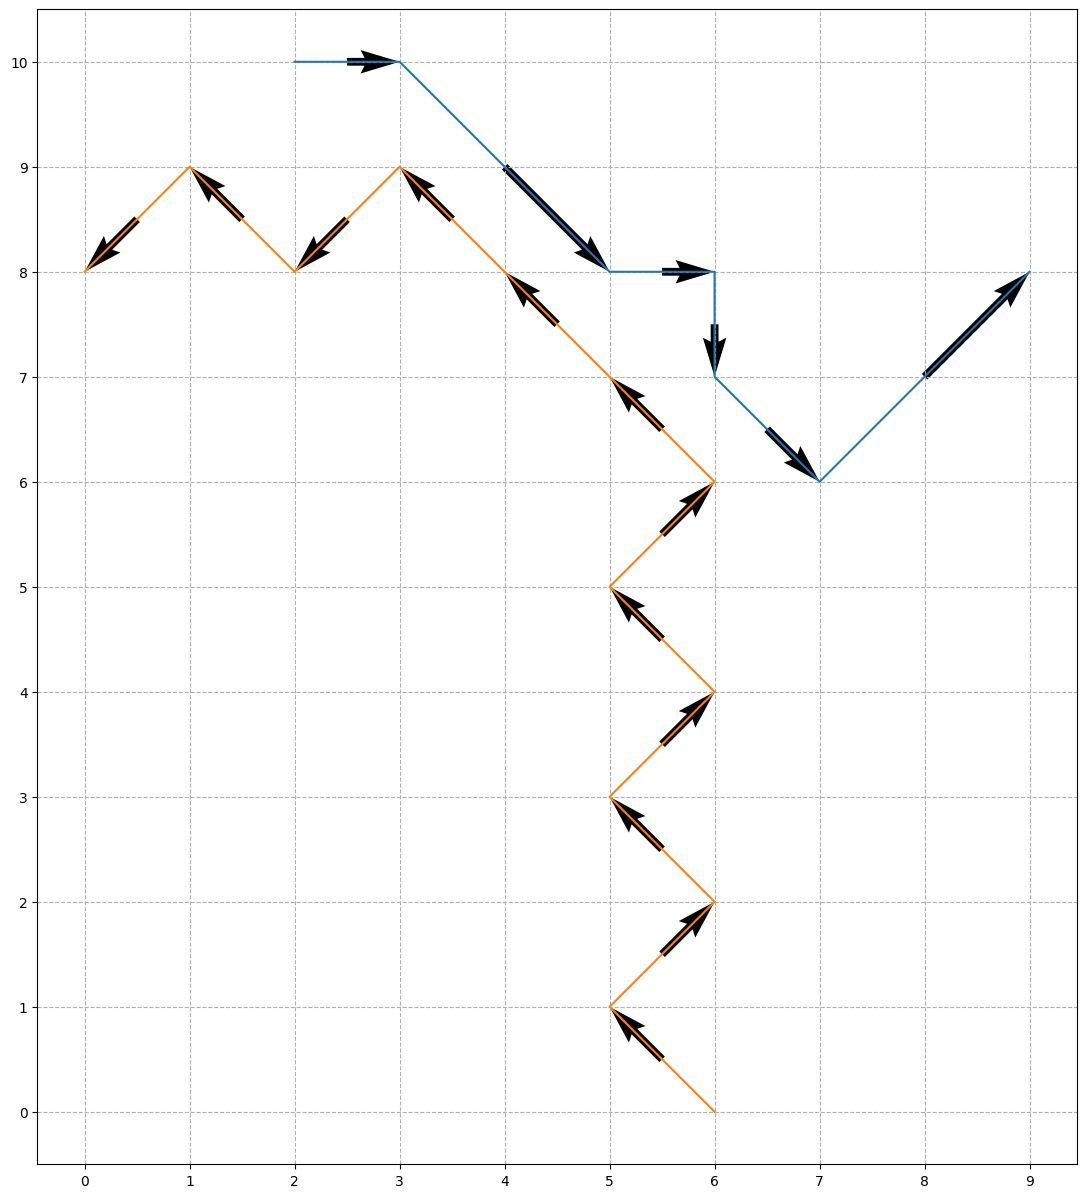
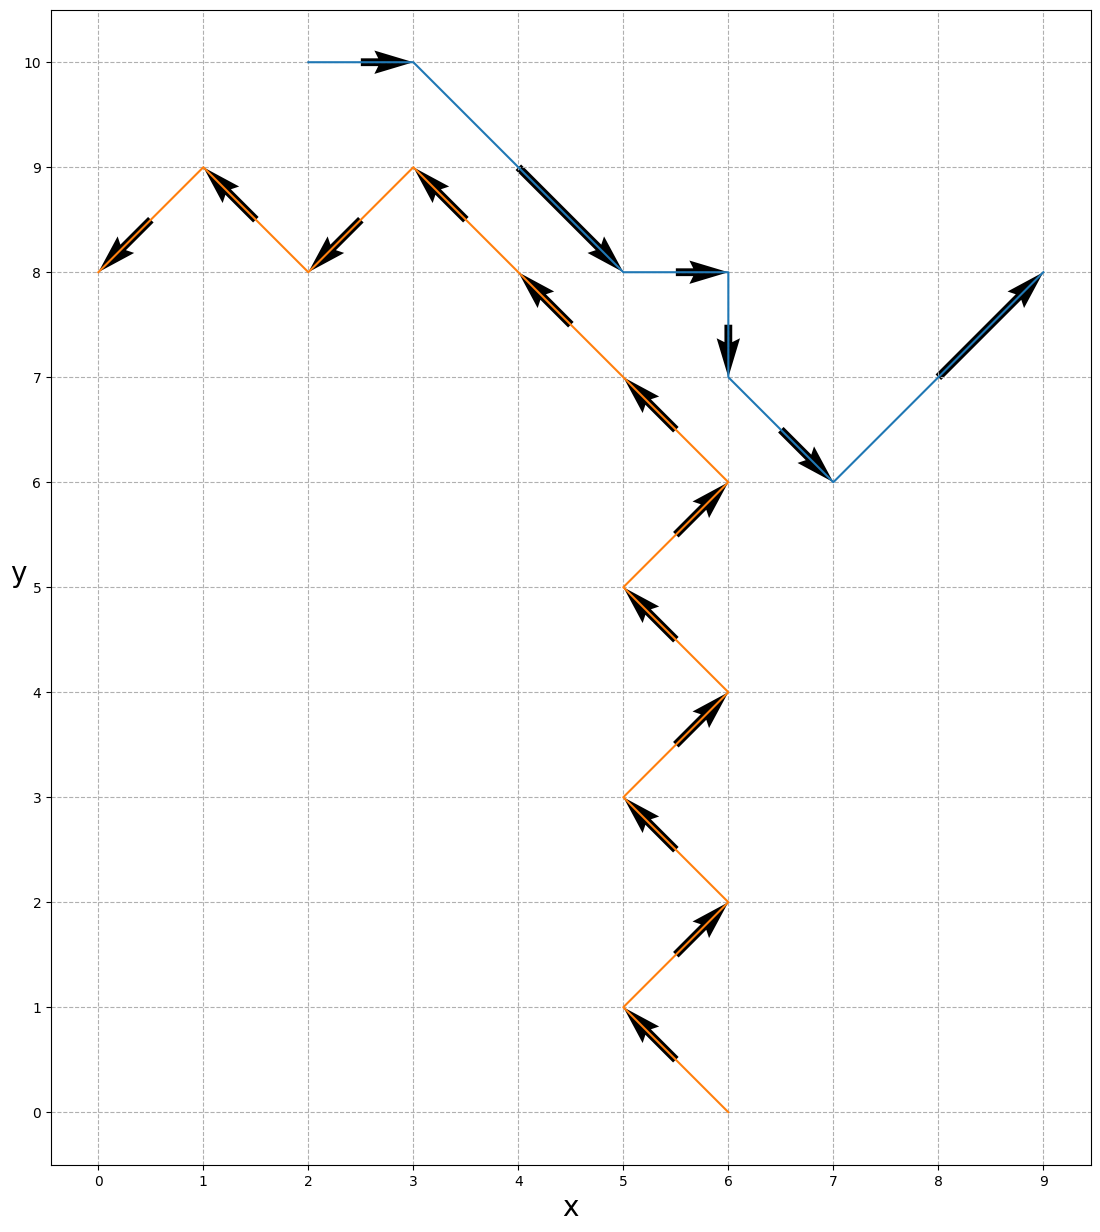
Added plot of paths with one doubling back

diff --git a/doubleback_quiver.py b/doubleback_quiver.py
@@ -4,23 +4,29 @@ from pathlib import Path
 
 # Create the two "linestring" paths as 2 vectors of (x,y) coordinates
 
-v1 = np.array([(2, 10), (3, 10), (5, 8), (6, 8), (6, 7), (7, 6), (9, 8),])
+# Green, above
+v1 = np.array(
+    [
+        (11.0, 8.5),
+        (3.0, 7.0),
+        (6.2, 7.0),
+        (7.5, 6.5),
+        (5.0, 4.8),
+        (6.5, 4.8),
+    ]
+)
 
+# Purple, below (doubling back)
 v2 = np.array(
     [
-        (6, 0),
-        (5, 1),
-        (6, 2),
-        (5, 3),
-        (6, 4),
-        (5, 5),
-        (6, 6),
-        (5, 7),
-        (4, 8),
-        (3, 9),
-        (2, 8),
-        (1, 9),
-        (0, 8),
+        (10.0, 4.5),
+        (4.0, 4.5),
+        (6.7, 6.3),
+        (6.1, 6.7),
+        (5.7, 6.6),
+        (6.1, 6.2),
+        (2.0, 6.3),
+        (2.8, 7.4),
     ]
 )
 
@@ -42,19 +48,20 @@ v2_mid_dirs_x, v2_mid_dirs_y = v2_mid_dirs[:, 0], v2_mid_dirs[:, 1]
 
 def draw_plot():
     plt.figure(figsize=(15, 15))
-    #plt.title("Two paths that approach nearby in opposite directions")
+    # plt.title("Two paths that approach nearby in opposite directions")
     ax = plt.axes()
     ax.set_aspect(1)
     for axis, label in zip([ax.xaxis, ax.yaxis], ["x", "y"]):
-        loc = plticker.MultipleLocator(base=1)
+        loc = plticker.MultipleLocator(base=1.0)
         axis.set_major_locator(loc)
         axis.set_label_text(label, fontsize=20, rotation=0)
-    plt.plot(v1_x, v1_y)
-    plt.plot(v2_x, v2_y)
-    plt.quiver(v1_mid_x, v1_mid_y, v1_mid_dirs_x, v1_mid_dirs_y, units="xy", scale=2.0)
-    plt.quiver(v2_mid_x, v2_mid_y, v2_mid_dirs_x, v2_mid_dirs_y, units="xy", scale=2.0)
-    plt.grid(which="both", linestyle="--")
+    plt.plot(v1_x, v1_y, linestyle="--", color="green")
+    plt.plot(v2_x, v2_y, linestyle="--", color="purple")
+    plt.quiver(v1_mid_x, v1_mid_y, v1_mid_dirs_x, v1_mid_dirs_y, units="xy", scale=2.0, color="green")
+    plt.quiver(v2_mid_x, v2_mid_y, v2_mid_dirs_x, v2_mid_dirs_y, units="xy", scale=2.0, color="purple")
+    #plt.grid(which="both", linestyle="--")
     return
+
 
 def show_plot():
     draw_plot()
@@ -67,6 +74,7 @@ def save_plot():
     draw_plot()
     plt.savefig(file, bbox_inches="tight")
     return
+
 
 if __name__ == "__main__":
     show_plot()

diff --git a/save_db_quiver.py b/save_db_quiver.py
@@ -1,0 +1,18 @@
+from matplotlib import pyplot as plt
+from pathlib import Path
+from doubleback_quiver import draw_plot
+
+def show_plot():
+    draw_plot()
+    plt.show()
+    return
+
+
+def save_plot():
+    file = Path(__file__).parent / "img" / "doubleback_plot.png"
+    draw_plot()
+    plt.savefig(file, bbox_inches="tight")
+    return
+
+if __name__ == "__main__":
+    save_plot()

diff --git a/save_quiver.py b/save_quiver.py
@@ -1,0 +1,18 @@
+from matplotlib import pyplot as plt
+from pathlib import Path
+from quiver import draw_plot
+
+def show_plot():
+    draw_plot()
+    plt.show()
+    return
+
+
+def save_plot():
+    file = Path(__file__).parent / "img" / "quiver_plot.png"
+    draw_plot()
+    plt.savefig(file, bbox_inches="tight")
+    return
+
+if __name__ == "__main__":
+    save_plot()

diff --git a/README.md b/README.md
@@ -5,3 +5,12 @@ Comparing discrete paths
 - Initial line/quiver plot in `quiver.py` sketches the problem:
 
 ![](img/quiver_plot.png)
+
+- This suggests that a distance function to compare only the tangent vectors at the points
+  nearby to one or more points on the alternate path would give a way to compare directions.
+
+- However, we also want to consider real world paths which are not so simple, for instance
+  ones that loop back on themselves to momentarily head in the same direction as the
+  alternate path (though the alternate paths are overall in opposite directions)
+
+![](img/doubleback_plot.png)
